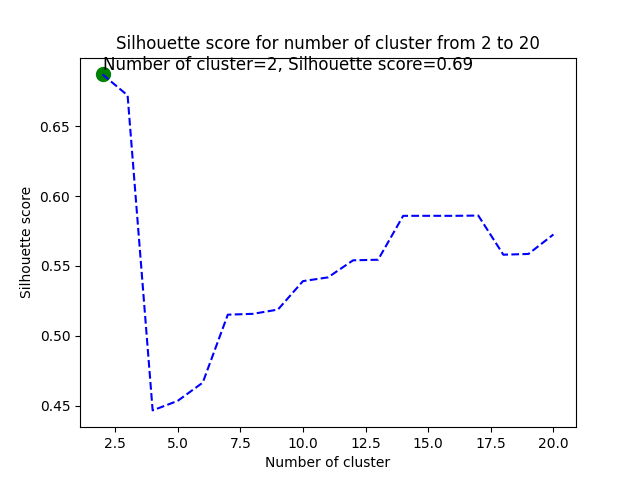
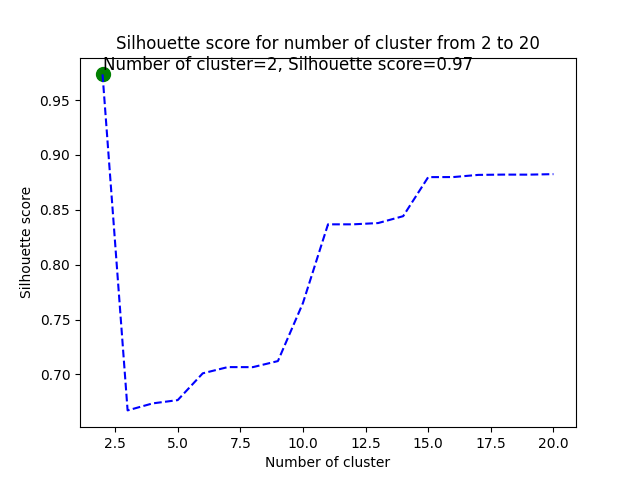
Organize file

diff --git a/clustering_data.py b/clustering_data.py
@@ -1,29 +1,34 @@
 import numpy as np
 import pandas as pd
 import matplotlib.pyplot as plt
-from sklearn.impute import SimpleImputer
-from sklearn.preprocessing import StandardScaler
 from sklearn.cluster import KMeans
 from sklearn.metrics import silhouette_score
 from sklearn.decomposition import PCA
 
 from plot.plot import plot_with_text
+from format_data.process_data import process_data
 
 
-def preprocess_data(data):
-    imputer = SimpleImputer(strategy='mean')
-    data_imputed = imputer.fit_transform(data)
+def k_means(input_file, random_state, sample_size, save_plot_file, save_k_means_file):
+    df = pd.read_csv(input_file)
+    # Replace null values
+    preprocessed_data = process_data('mean', df)
+    # Sample so that silhouette_score performing is faster
+    sample_data = create_sample_data(random_state, preprocessed_data, sample_size)
+    n_clusters = find_best_k(sample_data, random_state, save_plot_file)
+    plot_clusters(preprocessed_data, n_clusters, random_state, save_k_means_file)
 
-    scaler = StandardScaler()
-    data_scaled = scaler.fit_transform(data_imputed)
 
-    return data_scaled
+def create_sample_data(random_state, data, sample_size):
+    np.random.seed(random_state)
+    indices = np.random.choice(data.shape[0], sample_size, replace=False)
+    data_sample = data[indices]
+    return data_sample
 
 
 def find_best_k(data, random_state, save_plot_file):
     silhouette_score_avg = []
     for n_clusters in range(2, 21):
-        print(n_clusters)
         kmeans = KMeans(n_clusters=n_clusters, random_state=random_state)
         cluster_labels = kmeans.fit_predict(data)
         silhouette_avg = silhouette_score(data, cluster_labels)
@@ -41,44 +46,19 @@ def find_best_k(data, random_state, save_plot_file):
     return best_n_clusters
 
 
-def create_sample_data(random_state, data, sample_size):
-    np.random.seed(random_state)
-    indices = np.random.choice(data.shape[0], sample_size, replace=False)
-    data_sample = data[indices]
-    return data_sample
-
-
 def plot_clusters(data, n_clusters, random_state, save_file):
-    # Apply PCA to reduce the data to two dimensions
     pca = PCA(n_components=2)
     pca_transformed_data = pca.fit_transform(data)
 
-    # Perform KMeans clustering
     kmeans = KMeans(n_clusters=n_clusters, random_state=random_state)
     cluster_labels = kmeans.fit_predict(data)
 
-    # Plot the clustered data
+    # Plot cluster according to PCA
     plt.figure(figsize=(10, 6))
     scatter = plt.scatter(pca_transformed_data[:, 0], pca_transformed_data[:, 1], c=cluster_labels, cmap='viridis',
                           s=50)
-    plt.title('KMeans Clustering Results with PCA')
+    plt.title(f'KMeans Clustering Results with PCA')
     plt.xlabel('PCA 1')
     plt.ylabel('PCA 2')
     plt.colorbar(scatter, label='Cluster')
-    plt.show()
     plt.savefig(save_file)
-
-
-def k_means(input_file, random_state, sample_size, save_plot_file, save_k_means_file):
-
-    df = pd.read_csv(input_file)
-    # Preprocess the entire dataset
-    preprocessed_data = preprocess_data(df)
-    '''
-    # Sample the preprocessed data
-    sample_data = create_sample_data(random_state, preprocessed_data, sample_size)
-    # Find the best number of clusters using the sample
-    n_clusters = find_best_k(sample_data, random_state, save_plot_file)
-    # Plot the clustering results for the sample
-    '''
-    plot_clusters(preprocessed_data, 2, random_state, save_k_means_file)
